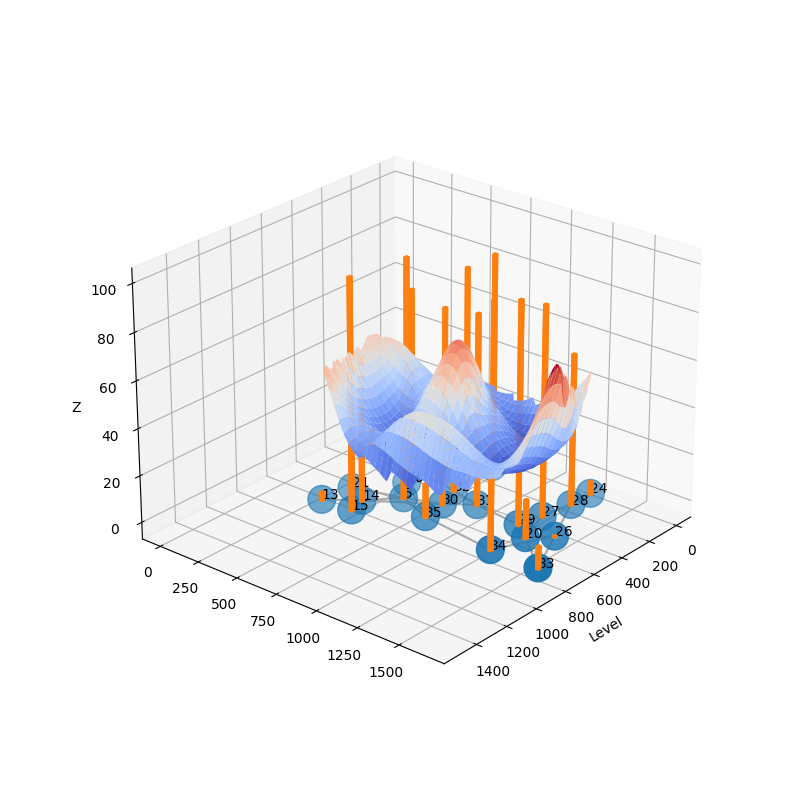
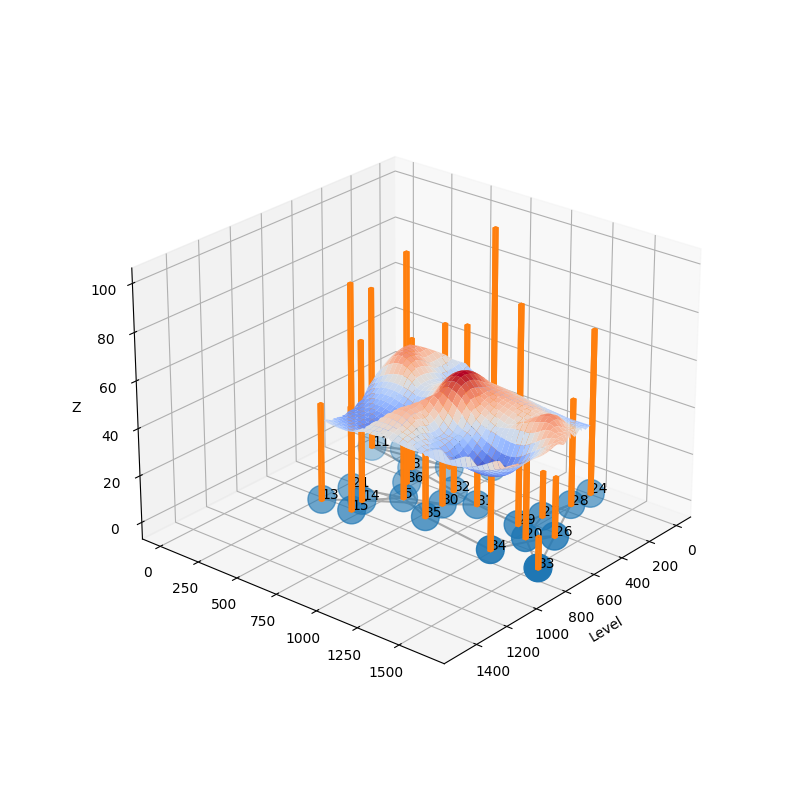
peak potential

Changed region(s): [[0.375, 0.3125, 0.75, 0.6875], [0.5938, 0.2812, 0.625, 0.3125]]

diff --git a/sample_mount.py b/sample_mount.py
@@ -41,8 +41,6 @@ for i in range(len(df)):
 # %%
 N = df["num"].sum()
 df["pot"] = -np.log(df["num"]/N)
-mou = -np.log(1/N)
-# df
 
 # %%
 rels = []
@@ -104,9 +102,17 @@ points = np.array([X, Y]).T
 # maximum of your X and Y. 50j indicates 50 discretization
 # points between the minimum and maximum.
 X_grid, Y_grid = np.mgrid[1:1000:100j, 1:1500:100j]
-# print(len(X_grid[0]))
-# interpolate your values on the grid defined above
-Z_grid = griddata(points, Z, (X_grid, Y_grid), method='cubic')
+
+Z_grid = np.zeros_like(X_grid)
+
+for n in range(len(df)):
+    chi = Z[n]
+    for i in range(100):
+        for j in range(100):
+            Z_grid[i][j] += 10* chi / np.sqrt(1 + ((X_grid[i][j] - X[n])**2 + (Y_grid[i][j] - Y[n])**2))
+
+
+# Z_grid = griddata(points, Z, (X_grid, Y_grid), method='cubic')
 
 ax2.plot_surface(X_grid, Y_grid, Z_grid, cmap=cm.coolwarm, 
                        linewidth=0, antialiased=True)
@@ -116,6 +122,6 @@ ax2.view_init(elev= 25, azim=40, roll=0)
 ax2.set_xlabel('Level')
 # ax2.set_ylabel('Y Label')
 ax2.set_zlabel('Z')
-plt.savefig("pot_network_%s.png" % file)
+plt.savefig("pot_mount_%s.png" % file)
 
 plt.show()
